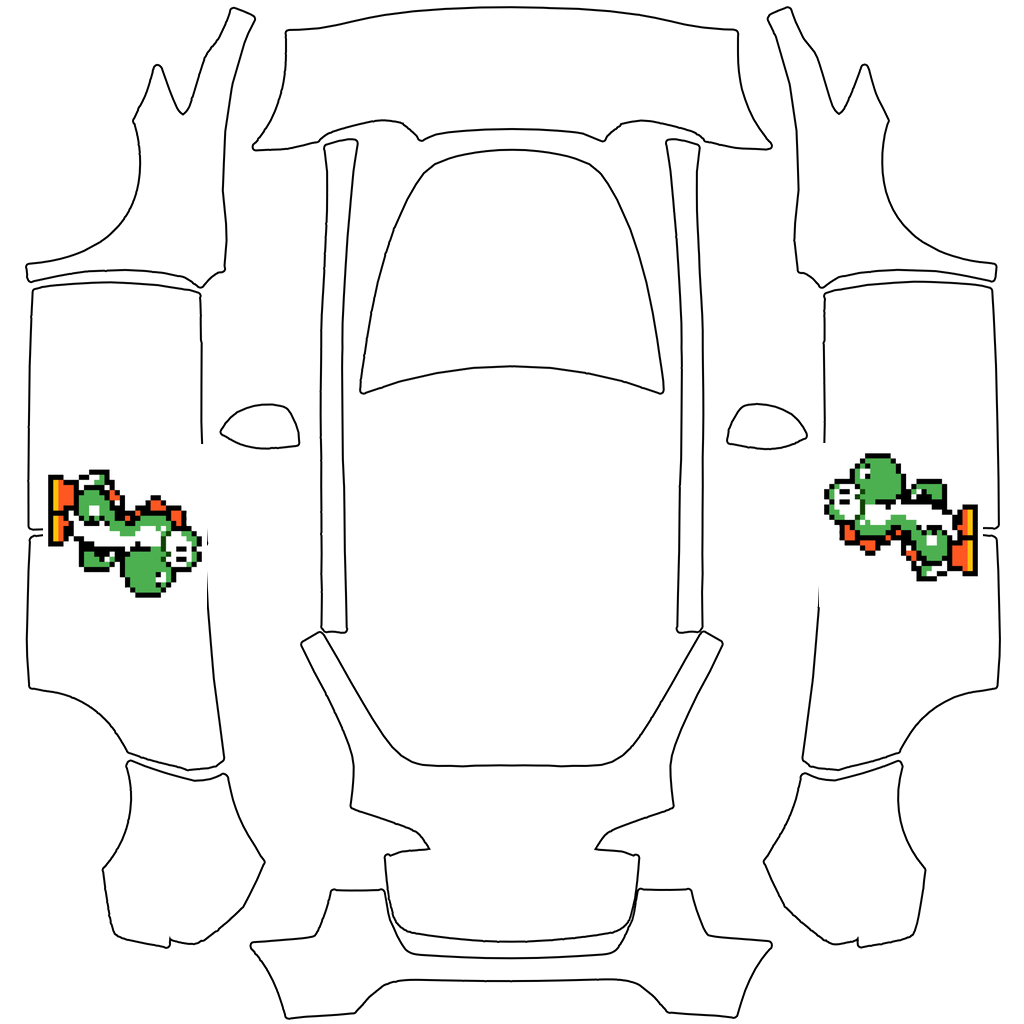
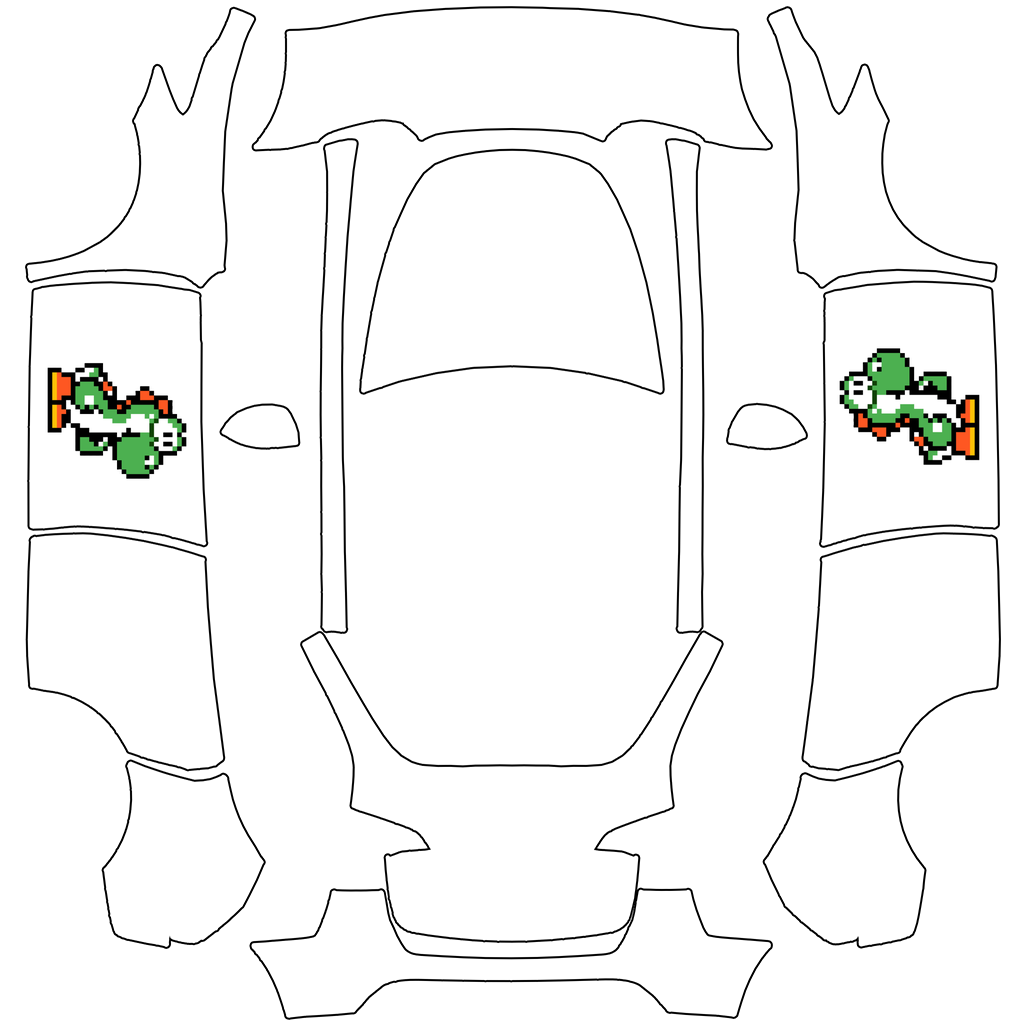
Fix Yoshi placement to individual front doors
Each Yoshi now centers on its own front door panel rather than spanning
both front and rear doors combined.

Changed region(s): [[0.7812, 0.3438, 0.9688, 0.5625], [0.0312, 0.3438, 0.2188, 0.5938]]

diff --git a/place_yoshi.py b/place_yoshi.py
@@ -16,10 +16,10 @@ OUTPUT_PATH    = "outputs/yoshi_doors.png"
 LEFT_YOSHI     = "raw/yoshi_90.png"
 RIGHT_YOSHI    = "raw/yoshi_270.png"
 
-# Bounding boxes of the combined door areas (front + rear door panels)
+# Bounding boxes of the front door panels only (driver + front passenger)
 # detected from the template's connected white regions
-LEFT_DOOR  = dict(x0=28,  y0=284, x1=222, y1=768)
-RIGHT_DOOR = dict(x0=804, y0=283, x1=998, y1=768)
+LEFT_DOOR  = dict(x0=30,  y0=284, x1=205, y1=544)
+RIGHT_DOOR = dict(x0=821, y0=283, x1=997, y1=544)
 
 # Scale Yoshi to this fraction of the door's smaller dimension
 YOSHI_SCALE = 0.85
